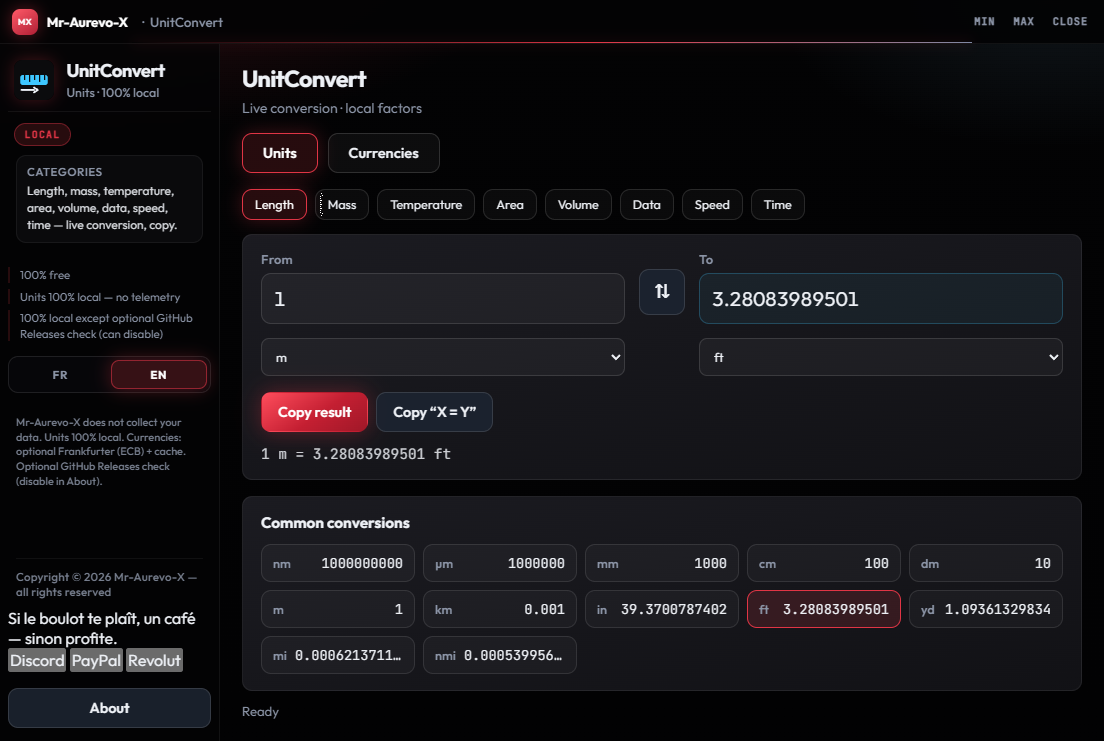
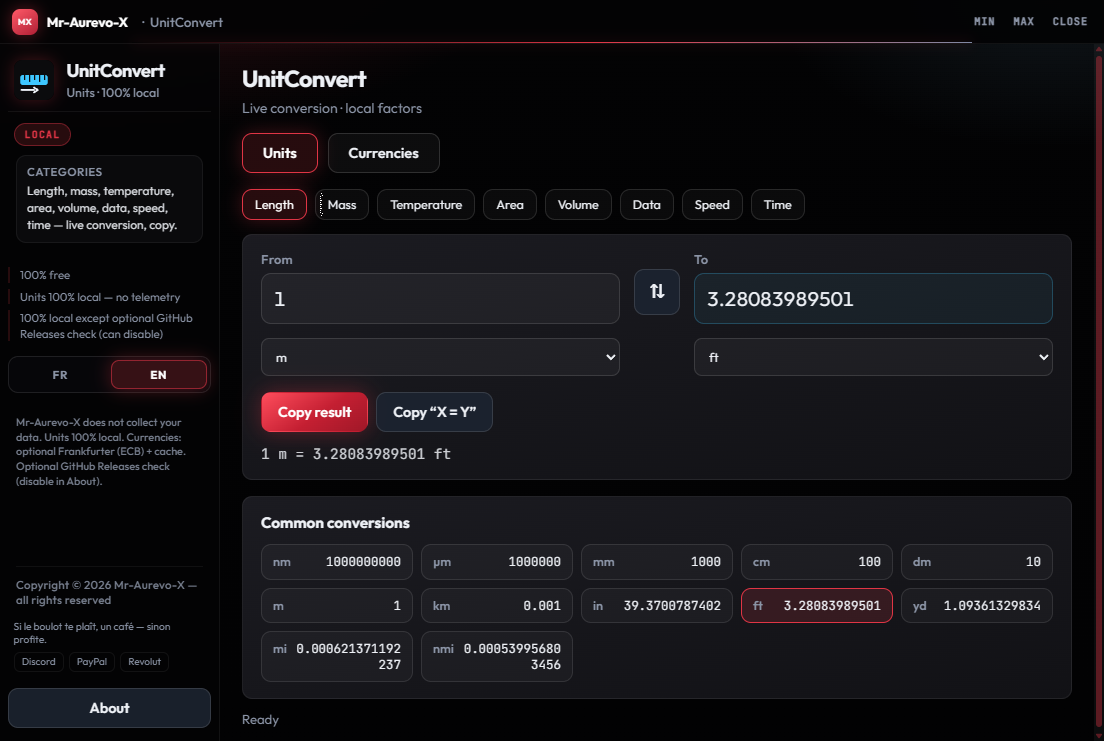
fix support strip styling and common conversion overflow.

diff --git a/ui/void-glow-app.css b/ui/void-glow-app.css
@@ -220,3 +220,47 @@ body.theme-void-glow .about-card {
   max-height: min(88vh, 880px);
   box-sizing: border-box;
 }
+
+/* Optional support strip (hub-support-dons) — outline Void Glow, not .btn fill */
+body.theme-void-glow .hub-support {
+  display: flex;
+  flex-direction: column;
+  gap: 0.35rem;
+  padding: 0 0.35rem;
+  margin-top: 0.25rem;
+}
+
+body.theme-void-glow .hub-support-note {
+  margin: 0;
+  font-size: 0.64rem;
+  line-height: 1.3;
+  color: var(--muted);
+}
+
+body.theme-void-glow .hub-support-links {
+  display: flex;
+  flex-wrap: wrap;
+  gap: 0.3rem;
+}
+
+body.theme-void-glow .hub-support-btn {
+  appearance: none;
+  border: 1px solid var(--border, var(--line, rgba(255, 255, 255, 0.12)));
+  background: transparent !important;
+  color: var(--muted);
+  border-radius: 6px;
+  padding: 0.2rem 0.45rem;
+  font: inherit;
+  font-size: 0.62rem;
+  line-height: 1.2;
+  cursor: pointer;
+  box-shadow: none !important;
+  transition: color 0.2s, border-color 0.2s, box-shadow 0.25s;
+}
+
+body.theme-void-glow .hub-support-btn:hover {
+  color: var(--text);
+  border-color: rgba(224, 53, 69, 0.55);
+  box-shadow: 0 0 16px rgba(224, 53, 69, 0.25) !important;
+  transform: none !important;
+}

diff --git a/ui/styles.css b/ui/styles.css
@@ -229,13 +229,15 @@ select optgroup {
 }
 .common-val {
   font-family: var(--mono);
-  font-size: 0.85rem;
+  font-size: 0.78rem;
   font-variant-numeric: tabular-nums;
   color: var(--text);
   text-align: right;
-  overflow: hidden;
-  text-overflow: ellipsis;
-  white-space: nowrap;
+  overflow-wrap: anywhere;
+  word-break: break-word;
+  white-space: normal;
+  line-height: 1.25;
+  min-width: 0;
 }
 .status {
   margin-top: 12px;
